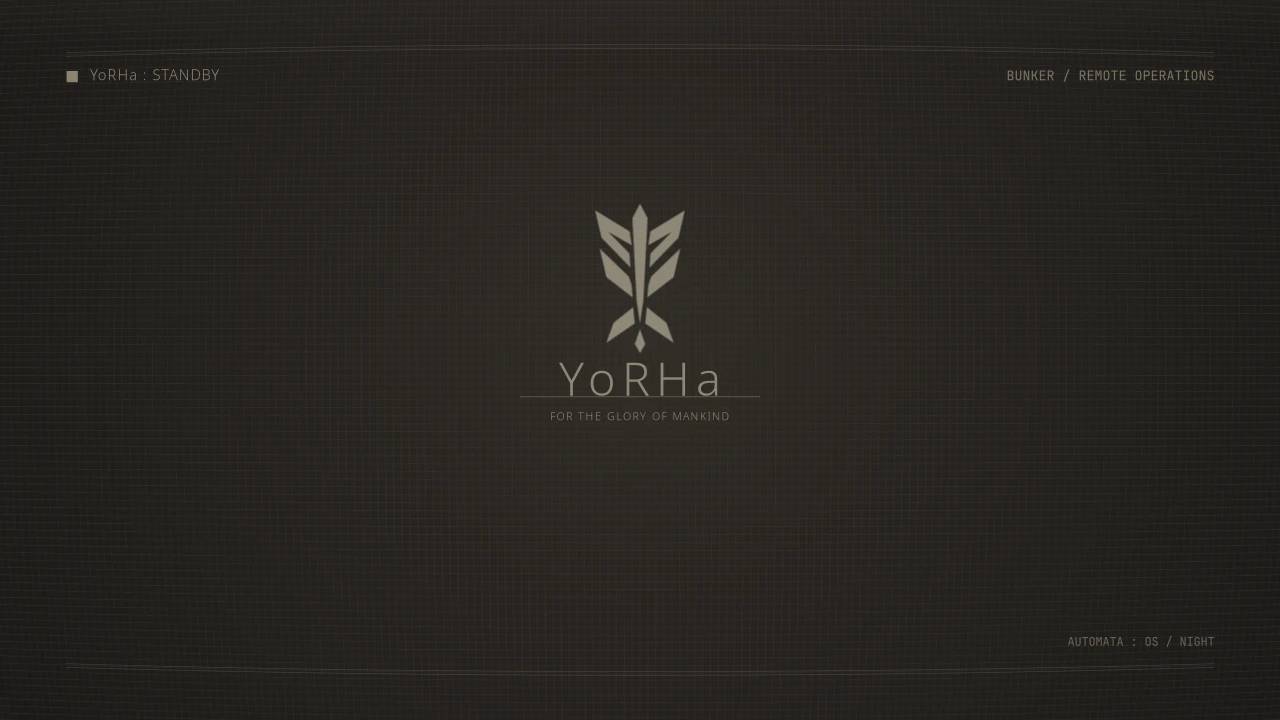
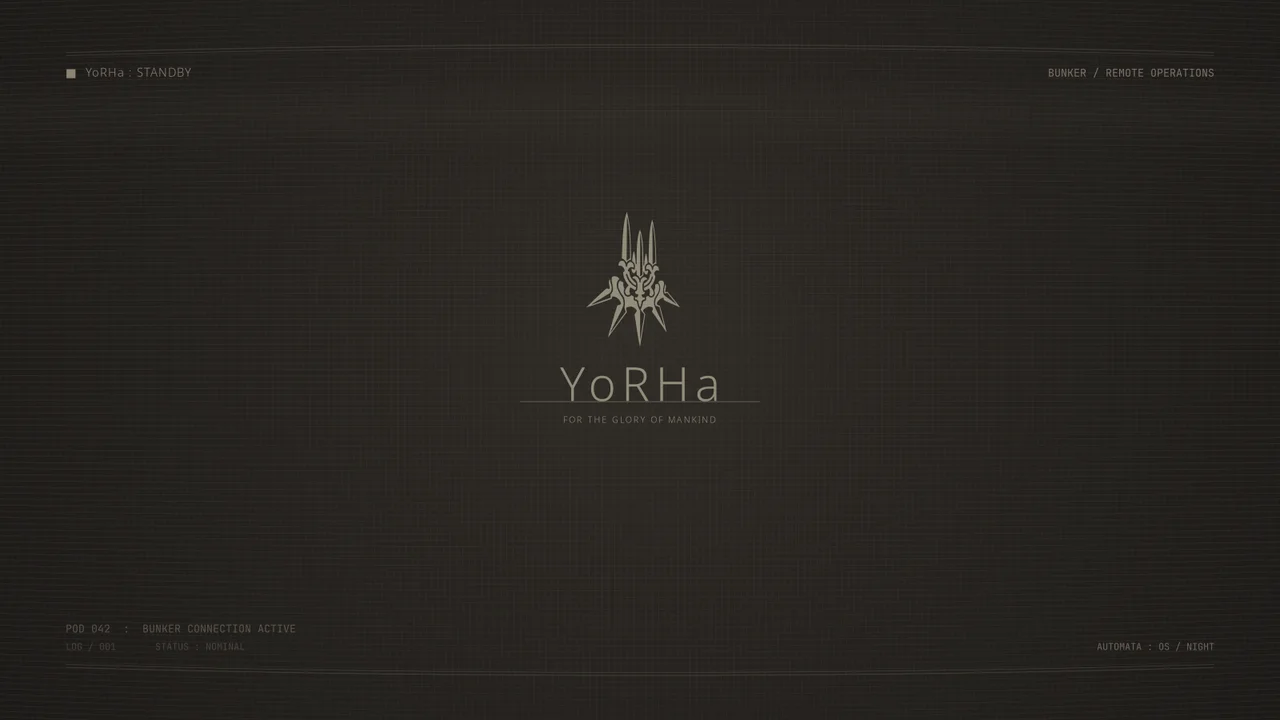
feat: use the YoRHa emblem for every installation

diff --git a/scripts/wizard.py b/scripts/wizard.py
@@ -44,10 +44,11 @@ def parser():
     dep.add_argument('--no-deps', dest='deps', action='store_false')
     p.set_defaults(deps=None)
     p.add_argument('--no-venv', action='store_true', help='Skip calendar venv creation (for staging/tests only)')
-    p.add_argument('--no-assets', action='store_true', help='Skip wallpaper generation (for staging/tests only)')
+    p.add_argument('--no-assets', action='store_true', help='Skip emblem download and wallpaper generation (for staging/tests only)')
     p.add_argument('--no-bindings', action='store_true', help='Keep existing key bindings; add theme/startup only')
     p.add_argument('--keyboard', default='us', help='XKB layout for standalone config')
-    p.add_argument('--game-emblem', action='store_true', help='Download optional community game emblem; see THIRD_PARTY.md')
+    # Accept the old opt-in flag so existing install commands still work.
+    p.add_argument('--game-emblem', action='store_true', help=argparse.SUPPRESS)
     p.add_argument('--phonecam', action='store_true', help='Add optional DroidCam button (DroidCam CLI must be installed separately)')
     p.add_argument('--sddm', action='store_true', help='Stage optional SDDM theme and print its separate sudo installation command')
     p.add_argument('--activate', action='store_true', help='Reload live Hyprland and restart bar/widgets after installation')
@@ -73,7 +74,6 @@ def choose(args):
             if yes(title, item in args.components): args.components.add(item)
             else: args.components.discard(item)
         args.no_bindings=not yes('Install YoRHa shortcuts (listed in the plan)', not args.no_bindings)
-        args.game_emblem=yes('Use optional upstream game emblem (separate rights; default is an original crest)', args.game_emblem)
         args.phonecam=yes('Add optional USB / Wi-Fi DroidCam button (requires DroidCam CLI)', args.phonecam)
         args.sddm=yes('Prepare optional SDDM login theme for separate installation', args.sddm)
         if args.deps is None: args.deps=yes('Install native prerequisites with the distribution package manager', bool(args.distro))
@@ -99,7 +99,7 @@ def plan(args):
     print('  Hyprland:   '+args.layout+(' (preserve main config, append one source)' if args.layout=='overlay' else ' (replace main config; back up previous file)'))
     print('  Palette:    '+args.mode)
     print('  Components: '+', '.join(sorted(args.components)))
-    print('  Emblem:     '+('checksum-pinned upstream download' if args.game_emblem else 'bundled original wing crest'))
+    print('  Emblem:     YoRHa game emblem (checksum-pinned upstream download)')
     print('  Backups:    ~/.local/state/yorha/backups/<UTC timestamp>/')
     print('  Recovery:   yorha-restore <backup> (or python3 scripts/restore.py <backup>)')
     print('  Startup:    guarded bar/notifications/wallpaper + selected user services at next login')
@@ -225,11 +225,10 @@ def stage(args, folder):
                   exclude_outputs=['HEADLESS-','Virtual-','Sunshine'])
     if not (args.target/'.config/yorha/settings.json').exists():
         (flags/'settings.json').write_text(json.dumps(defaults,indent=2)+'\n')
-    if args.game_emblem:
+    if not args.no_assets:
         sys.path.insert(0,str(REPO/'scripts'))
         from fetch_emblem import fetch
         fetch(root/'assets/yorha-emblem.svg')
-    if not args.no_assets:
         subprocess.run(['/usr/bin/python3',str(root/'render-interface.py')],check=True)
         if args.sddm:
             subprocess.run(['/usr/bin/python3',str(REPO/'scripts/prepare-sddm.py'),str(root)],check=True)

diff --git a/tests/test_installer.py b/tests/test_installer.py
@@ -162,6 +162,44 @@ class PaletteTests(unittest.TestCase):
                 self.assertEqual((home/'.local/share/yorha/mode').read_text().strip(),mode)
 
 
+class EmblemTests(unittest.TestCase):
+    def test_normal_install_downloads_yorha_emblem_before_rendering(self):
+        from unittest.mock import patch
+        import wizard
+        with tempfile.TemporaryDirectory() as work:
+            home=Path(work)/'home';home.mkdir()
+            stage=Path(work)/'stage';stage.mkdir()
+            args=wizard.choose(wizard.parser().parse_args([
+                '--yes','--no-deps','--no-venv','--target',str(home)]))
+            emblem=stage/'.local/share/yorha/assets/yorha-emblem.svg'
+            data=b'<svg xmlns="http://www.w3.org/2000/svg"><title>Downloaded emblem</title></svg>'
+            def download(destination):
+                destination.parent.mkdir(parents=True,exist_ok=True)
+                destination.write_bytes(data)
+            def render(command,**kwargs):
+                self.assertEqual(emblem.read_bytes(),data)
+                self.assertTrue(command[1].endswith('/render-interface.py'))
+            with patch('fetch_emblem.fetch',side_effect=download) as fetch, \
+                 patch.object(wizard.subprocess,'run',side_effect=render) as renderer:
+                wizard.stage(args,stage)
+            fetch.assert_called_once_with(emblem)
+            renderer.assert_called_once()
+            self.assertEqual(list(home.iterdir()),[])
+
+    def test_failed_emblem_download_leaves_user_files_untouched(self):
+        from unittest.mock import patch
+        import wizard
+        with tempfile.TemporaryDirectory() as work:
+            home=Path(work)/'home';home.mkdir()
+            original=home/'keep.txt';original.write_text('existing data')
+            args=wizard.choose(wizard.parser().parse_args([
+                '--yes','--no-deps','--no-venv','--target',str(home)]))
+            with patch('fetch_emblem.fetch',side_effect=ValueError('Emblem checksum mismatch')):
+                with self.assertRaises(ValueError):wizard.apply(args)
+            self.assertEqual(list(home.iterdir()),[original])
+            self.assertEqual(original.read_text(),'existing data')
+
+
 class DependencyTests(unittest.TestCase):
     def test_fedora_resolves_wayland_provider_and_reuses_installed_stack(self):
         from unittest.mock import patch

diff --git a/scripts/fetch_emblem.py b/scripts/fetch_emblem.py
@@ -1,4 +1,4 @@
-"""Optional, pinned community trace. It is not part of the distributed artwork."""
+"""Pinned community trace downloaded at install time; not bundled artwork."""
 import hashlib
 from pathlib import Path
 import urllib.request
@@ -13,7 +13,7 @@ def fetch(destination):
     with urllib.request.urlopen(request,timeout=20) as response:
         data=response.read(65537)
     if len(data)>65536 or hashlib.sha256(data).hexdigest()!=SHA256:
-        raise ValueError('Optional emblem checksum mismatch; no artwork was installed')
+        raise ValueError('YoRHa emblem checksum mismatch; no artwork was installed')
     source=ET.fromstring(data)
     ET.register_namespace('',SVG)
     output=ET.Element('{'+SVG+'}svg',dict(viewBox='6.5 21.25 196.75 231.5',width='196.75',height='231.5'))
@@ -27,5 +27,6 @@ def fetch(destination):
             visit(child,target)
     visit(source,output)
     destination=Path(destination)
+    destination.parent.mkdir(parents=True,exist_ok=True)
     destination.write_bytes(ET.tostring(output,encoding='utf-8',xml_declaration=True))
-    (destination.parent/'emblem-origin.txt').write_text('Optional upstream game emblem\n'+URL+'\nSHA256 '+SHA256+'\nGame branding: Square Enix / PlatinumGames; community trace: gigsoll.\nNot covered by the project GPL.\n')
+    (destination.parent/'emblem-origin.txt').write_text('Upstream YoRHa game emblem\n'+URL+'\nSHA256 '+SHA256+'\nGame branding: Square Enix / PlatinumGames; community trace: gigsoll.\nNot covered by the project GPL.\n')

diff --git a/THIRD_PARTY.md b/THIRD_PARTY.md
@@ -4,15 +4,15 @@ This unofficial fan theme is inspired by NieR:Automata's menu, quest log and HUD
 
 ## Original project assets
 
-The procedural mesh/traces/rings wallpaper generator, original default wing crest, desktop panel layout, native Sound Waves geometry and installer are project source distributed under GPL-3.0-or-later. Generated wallpapers are made locally; game screenshots, the author's concept reference image and character illustrations are not redistributed.
+The procedural mesh/traces/rings wallpaper generator, desktop panel layout, native Sound Waves geometry and installer are project source distributed under GPL-3.0-or-later. Generated wallpapers are made locally; game screenshots, the author's concept reference image and character illustrations are not redistributed.
 
 Visual references: [Interface In Game menu archive](https://interfaceingame.com/games/nierautomata/) and the game's HUD: Sound Waves chip. Reference captures are not included in this repository. README previews are newly rendered with synthetic metadata/local demo tasks; they are not screenshots of the author's accounts or desktop session.
 
-## Optional game emblem
+## Game emblem download
 
[2 lines of base64/hex data omitted]
 
-The upstream repository does not supply a license grant. Therefore the trace is **not bundled**, is **not covered by this project's GPL**, and is downloaded only if the user explicitly selects it. The underlying game emblem remains its owners' artwork. Attribution does not grant redistribution rights. The original crest provides a complete install without this optional asset.
+The upstream repository does not supply a license grant. The trace is **not bundled** and is **not covered by this project's GPL**; it is fetched separately during installation. The underlying game emblem remains its owners' artwork. Attribution does not grant redistribution rights. The YoRHa emblem is the only supplied logo option; there is no bundled alternative crest.
 
 ## SDDM
 

diff --git a/docs/INSTALL.md b/docs/INSTALL.md
@@ -36,13 +36,14 @@ Python GI, Cairo, NumPy, psutil and fontTools come from native packages. Calenda
 | `--keyboard us` | Standalone XKB layout, e.g. `it` or `us,de` |
 | `--fedora-copr` | Explicitly enable the two documented community repositories on Fedora |
 | `--deps` / `--no-deps` | Install native packages / use existing prerequisites |
-| `--game-emblem` | Fetch pinned optional game logo; default artwork is original |
 | `--sddm` | Stage greeter and print separate privileged installation command |
 | `--phonecam` | Add DroidCam button; CLI/loopback setup remains separate |
 | `--activate` | Reload Hyprland, restart Waybar and selected widgets now |
 | `--dry-run` | Plan only, with no network access or writes |
 | `--target PATH` | Stage in a different home; requires `--no-deps`, prohibits activation |
 | `--no-assets`, `--no-venv` | Test/staging shortcuts; result is incomplete for normal daily use |
+
+Every normal install uses the YoRHa game emblem, including unattended installs. Its SVG is downloaded from the checksum-pinned source described in [asset credits](../THIRD_PARTY.md), so internet access is required. If that download fails or its checksum differs, staging stops before managed user files are replaced. There is no logo selection or alternative crest. The old `--game-emblem` flag is still accepted for compatibility but is no longer needed. `--no-assets` skips the emblem download and wallpaper generation for incomplete test/staging installs. `--dry-run` never downloads anything.
 
 Overlay preserves the *main* config and its existing startup. It still replaces managed application configuration files and selected shortcut bindings. Review the plan. If another framework autostarts a second bar, notification daemon or wallpaper recoloring script, disable its conflicting commands in your own configuration. The guarded startup helper avoids launching duplicate standard process names but cannot control other frameworks' custom services.
 

diff --git a/README.md b/README.md
@@ -49,7 +49,7 @@ For an unattended configuration install with prerequisites already present:
 - Procedural landscape/portrait wallpapers with a woven grid, edge fringing and gentle lens distortion. Generated locally from source.
 - Optional SDDM theme and optional DroidCam USB/Wi-Fi button.
 
-Public defaults use an original wing crest, packaged Noto Sans / JetBrains Mono, and system Breeze icons. For the community trace of the game logo, select it in the wizard or add `--game-emblem`. The upstream SVG is checksum pinned and downloaded only when requested; it is not bundled or relicensed. See [asset credits](THIRD_PARTY.md).
+The **YoRHa game emblem is used throughout**, alongside packaged Noto Sans / JetBrains Mono and system Breeze icons. Every normal install downloads a community SVG trace from a pinned upstream revision and verifies its checksum before generating the wallpapers and other visuals. This also applies to unattended `--yes` installs; there is no separate logo choice or alternative crest. Internet access is required for the emblem download. The game SVG is not bundled or relicensed. See [asset credits](THIRD_PARTY.md).
 
 ## Daily controls
 

diff --git a/BUILD-PLAN.md b/BUILD-PLAN.md
@@ -4,7 +4,7 @@
 2. Make monitor selection, paths, timezone and optional planner connections portable. Provide local tasks without requiring the author's cockpit service.
 3. Add a terminal wizard with a readable plan, Fedora/Arch dependency installation, dry run, component selection, standalone/overlay modes, file backups, recovery and diagnostics.
 4. Preserve day/night palettes, floating GTK panels, calendar/quests, Sound Waves HUD, wallpapers, lock/standby and application themes. Keep SDDM explicitly optional.
-5. Retain third-party licenses and attribution; supply an original crest by default and a checksum-pinned optional upstream game-emblem download.
+5. Retain third-party licenses and attribution; download the checksum-pinned upstream YoRHa game emblem for every normal install without bundling it or offering an alternative crest.
 6. Test in temporary homes, including symlinked dotfiles, install/update/restore, interrupted installs and path validation. Render synthetic day/night previews and scan the complete publication tree for private data.
 7. Publish the reviewed initial history under sashavrg/yorha-desktop and verify the public repository.
 

diff --git a/docs/DEVELOPMENT.md b/docs/DEVELOPMENT.md
@@ -13,7 +13,7 @@
 
 `@HOME@` and `@RUNTIME@` tokens are rendered into destination configuration. Systemd units use `%h`; runtime spectrum data lives in the user's runtime directory. No account URLs, real task snapshots, user IDs, GPU driver settings or named physical outputs belong in payload files.
 
-The theme uses standard `~/.config` and `~/.local` roots. Alternate `--target` homes are for staging and cannot activate the live session. `--no-assets --no-venv --no-deps` permits network-free file transaction tests on plain Python.
+The theme uses standard `~/.config` and `~/.local` roots. Alternate `--target` homes are for staging and cannot activate the live session. `--no-assets --no-venv --no-deps` permits network-free file transaction tests on plain Python. `--no-assets` skips both the emblem download and wallpaper generation; such staging installs are incomplete and must not be used for visual previews. Normal installs download the pinned YoRHa emblem before generating assets.
 
 ## Checks
 

diff --git a/docs/UPGRADING.md b/docs/UPGRADING.md
@@ -34,7 +34,7 @@ The audit encountered an older Zen AppImage crashing with `wp_image_description_
 
 | Check | Result |
 | --- | --- |
-| 23 automated tests, including native SVG loading and floating-window regression checks | Passed on Fedora 44, 2026-10-25 |
+| 25 automated tests, including native SVG loading, emblem staging and floating-window regression checks | Passed on Fedora 44, 2026-10-25 |
 | Real old-Python venv rebuild and transaction recovery | Passed |
 | Installed and newly staged standalone `Hyprland --verify-config` | Passed |
 | Live day/night switch, all managed files compared, then restored to original mode | Passed |
